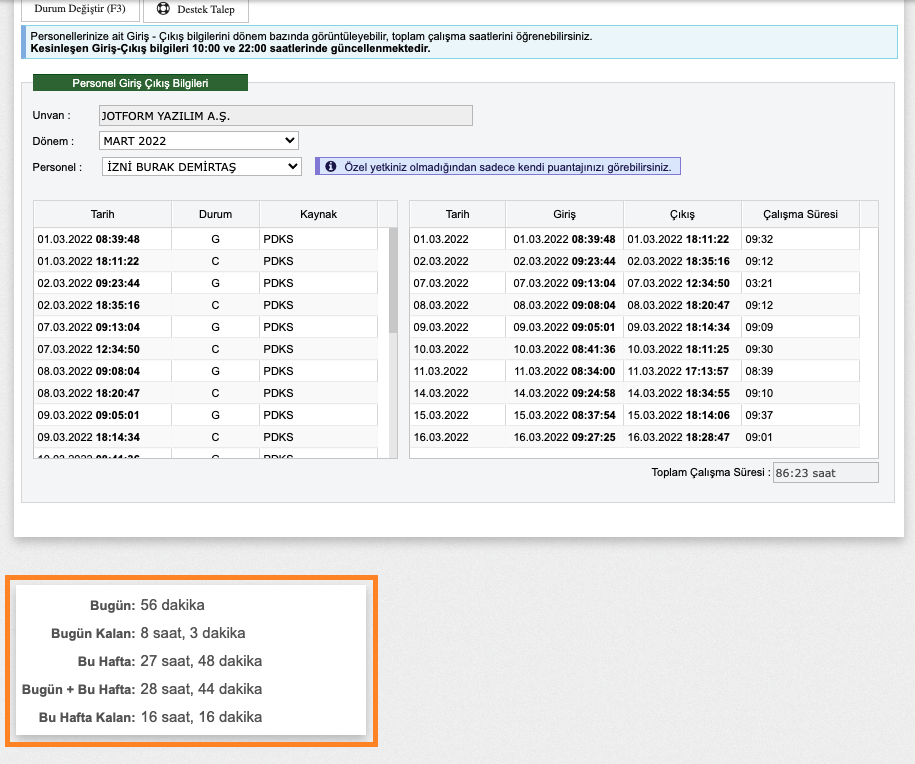
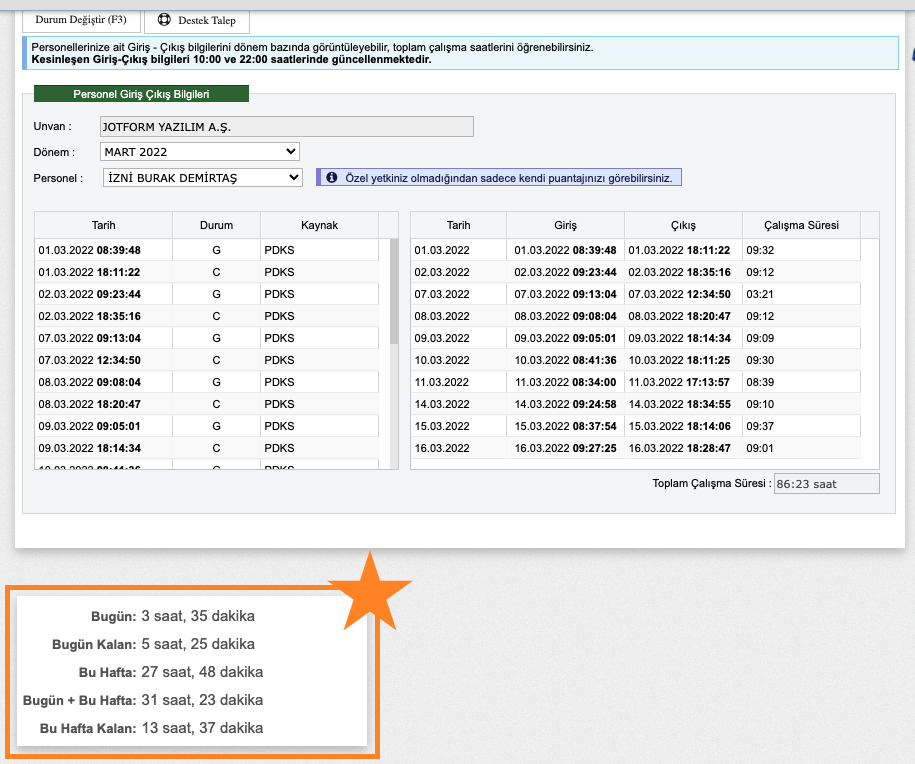
wip

Changed region(s): [[0.0, 0.0, 1.0, 0.6623], [0.0, 0.6924, 1.0, 0.9935], [0.9486, 0.1204, 0.9792, 0.1505]]

diff --git a/bookmarklet.js b/bookmarklet.js
@@ -1,13 +1,10 @@
 (function(){
-    const $ = document.querySelector.bind(document);
-    const $$ = document.querySelectorAll.bind(document);
-
-    if (!$('#grid_kesin_giris_cikis')) {
+    if (!document.querySelector('#grid_kesin_giris_cikis')) {
         alert('Open the "PDKS Giriş Çıkış Bilgileri Kartı" panel, then use the bookmarklet');
         return;
     }
 
-    const month = $('select#Donem_Id');
+    const month = document.querySelector('select#Donem_Id');
     if (!month || month.value === 'null') {
         alert('Please select a month for your records.');
         return;
@@ -50,7 +47,7 @@
 
     function addNoticeBox() {
         const boxId = 'script-notice-box';
-        $(`#${boxId}`)?.remove();
+        document.querySelector(`#${boxId}`)?.remove();
         const box = document.createElement('div');
         box.id = boxId;
         Object.assign(box.style, {
@@ -74,13 +71,13 @@
         const input = `
         <p style="font-size:1.5rem;width:10em;margin-right:5px;margin-left:5px;display:inline-block;margin-top:1px;">${child.value}</p>
         `;
-        $('#script-notice-box').insertAdjacentHTML('beforeend', withWrapper(`${label}${input}`));
+        document.querySelector('#script-notice-box').insertAdjacentHTML('beforeend', withWrapper(`${label}${input}`));
     }
 
     function app() {
         const today = dayjs();
-        $$('.script-input').forEach(row => { row.remove(); });
-        const [tableOne, tableTwo] = $$('div.flexgrid');
+        document.querySelectorAll('.script-input').forEach(row => { row.remove(); });
+        const [tableOne, tableTwo] = document.querySelectorAll('div.flexgrid');
 
         let firstRecord = null;
         const times = tableOne.querySelectorAll(`tbody > tr`);
@@ -94,7 +91,7 @@
             if (today.isSame(dayjs(time), 'day') && !firstRecord) {
                 firstRecord = time;
             }
-        })
+        });
 
         /** TODAY */
         let th = 0, tm = 0;
@@ -103,7 +100,7 @@
             [th, tm] = calculateTime(diff);
             const [rh, rm] = calculateRemaining(diff);
             addChild({label: `Bugün`, value: th > 0 ? `${th} saat, ${tm} dakika` : `${tm} dakika`});
-            addChild({label: `Bugün Kalan`, value: rh > 0 ? `${rh} saat, ${rm} dakika` : `${rm} dakika`});
+            addChild({label: `Bugün Kalan`, value: rh > 0 ? `${rh} saat, ${rm+1} dakika` : `${rm} dakika`});
             console.log(`Today: ${th} hours, ${tm} minutes`);
             console.log(`Remaining: ${rh} hours, ${rm} minutes`);
         }
@@ -126,7 +123,7 @@
 
                 const [wh, wm] = row.querySelector('td:nth-child(6)').innerText.split(':');
                 weekTotal += ((parseInt(wh) * 60) + parseInt(wm));
-            })
+            });
         
             const [wh, wm] = calculateTime(weekTotal / 60);
             addChild({label: `Bu Hafta`, value: `${wh} saat, ${wm} dakika`});

diff --git a/index.html b/index.html
@@ -9,15 +9,16 @@
 </head>
 <body>
   <div class="relative z-10 max-w-screen-lg xl:max-w-screen-xl mx-auto align-center">
-    <div class="px-4 sm:px-6 md:px-8 mb-14 sm:mb-20 xl:mb-8">
+    <div class="px-4 sm:px-6 md:px-8 mb-10 sm:mb-20 xl:mb-8">
       <h1 class="text-4xl leading-none font-extrabold text-center tracking-tight text-gray-900 mt-10 mb-8 sm:mt-14 sm:mb-10">Show Last Week's Total Working Hours on Your Teknokent Arge Portal</h1>
       <p class="max-w-screen-lg text-lg sm:text-2xl sm:leading-10 font-medium text-center mb-10 sm:mb-11 mx-auto">Drag this button to your bookmark bar,<br /> go to your ARGE Portal and open hours panel,<br /> click the bookmarklet.</p>
       <div class="flex flex-wrap flex-col items-center justify-center space-y-4 text-center">
         <a class="w-full sm:w-auto flex-none bg-gray-900 hover:bg-gray-700 text-white text-lg leading-6 font-semibold py-3 px-6 border border-transparent rounded-xl focus:ring-2 focus:ring-offset-2 focus:ring-offset-white focus:ring-gray-900 focus:outline-none transition-colors duration-200" id="bookmarklet" href="">Show Total Hours for the Last Week</a>
+        <a href="old/index.html">Old Version</a>
         <span class="text-gray-300">Latest Version: v2.0.0</span>
       </div>
 
-      <div class="relative my-10 lg:mx-40">
+      <div class="relative my-5 lg:mx-40">
         <img src="ss.png" alt="" class="w-full h-full object-cover rounded-lg" />
       </div>
     </div>
